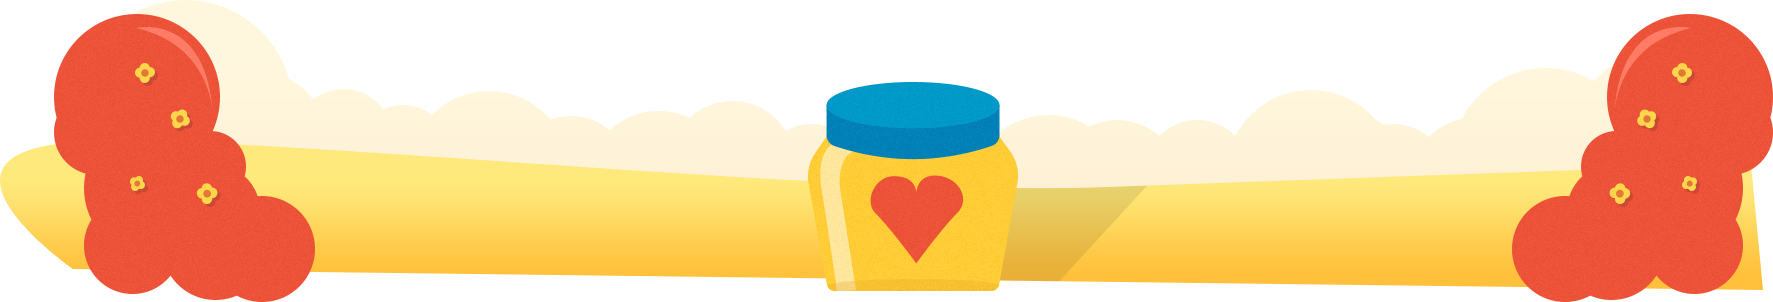
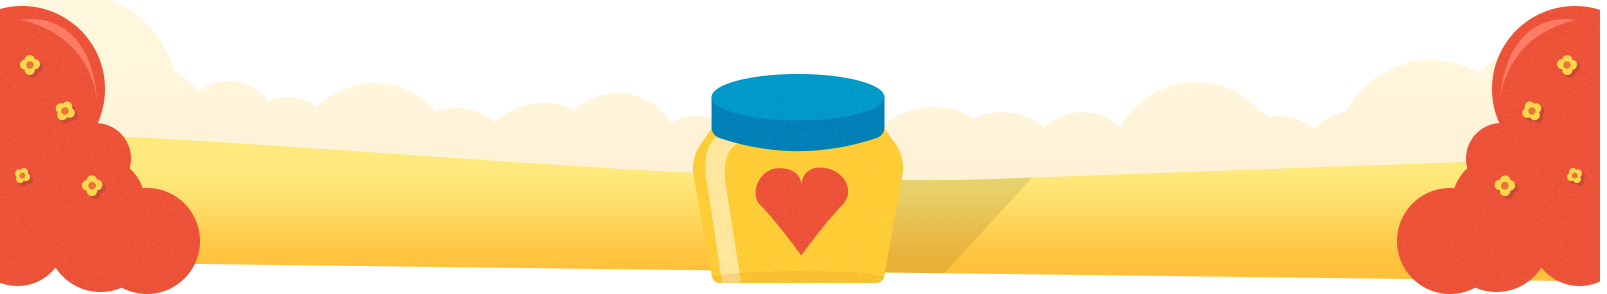
finish hero page

diff --git a/css/main.css b/css/main.css
@@ -1,13 +1,11 @@
 body {
     font-family: 'Poppins', sans-serif;
     font-size: 16px;
+
 }
 
 
 .OathJar_header {
-
-    
-    height: 100vh;
     background-color: #fffef9;
     background-image: linear-gradient(to top, #ffffff 0%, #fff9df 100%)
 }
@@ -20,7 +18,7 @@ body {
     height: 63px;
     background: url(../img/holder.png) no-repeat center;
     color: #0d3e60;
-    margin-top: 5%;
+    margin-top: 60px;
     margin-left: 7%;
 
 }
@@ -60,5 +58,100 @@ body {
     color: #0d3e60;
     font-size: 16px;
     font-weight: 300;
+}
+
+.Hero-page {
+
+}
+
+.Hero-page__invite {
+    display: flex;
+    flex-direction: column;
+    align-items: center;
+}
+
+.Hero-page__invite__icon {
+    width: 79px;
+    height: 84px;
+}
+
+.Hero-page__invite span {
+    color: #eb5238;
+    font-size: 20px;
+    font-weight: 300;
+    margin-top: 35px;
+}
+
+.Hero-page__content {
+    display: flex;
+    flex-direction: column;
+    align-items: center;
+}
+
+.Hero-page__content__title {
+width: 640px;
+margin: 20px auto;
+text-align: center;
+color: #0d3e60;
+font-size: 36px;
+font-weight: 700;
+}
+
+.Hero-page__content__emails {
+    display: flex;
+    flex-direction: row;
+    align-items: center;
+}
+.Hero-page__content__emails a {
+    text-decoration: none;
+    color: #0d3e60;
+    font-weight: 700;
+    font-size: 16px;
+}
+
+.Hero-page__content__email1, .Hero-page__content__email2 {
+    height: 91px;
+    display: flex;
+    flex-direction: column;
+    justify-content: space-around;
+    color: #eb5238;
+    font-size: 22px;
+    font-weight: 700;
+}
+.Hero-page__content__email1 {
+    text-align: right;
+}
+.Hero-page__content__button {
+    border: none;
+    margin: 0 35px;
+    width: 91px;
+    height: 113px;
+    background: url(../img/heart.png) no-repeat center;
+}
+.Hero-page__message {
+display: flex;
+flex-direction: column;
+}
+
+.Hero-page__message-desc {
+    display: flex;
+    justify-content: center;
+    color: #0d3e60;
+    font-weight: 300;
+}
+.Hero-page__message-text {
+    background: url(../img/Scroll_background.png) no-repeat center;
+    background-size: contain;
+    text-align: center;
+    line-height: 165px;
+    color: #8d8b80;
+    font-size: 18px;
+    font-weight: 500;
+}
+.Hero-page__illustration {
+    width: 100%;
+    height: 294px;
+    background: url(../img/header_bottom.png) no-repeat center;
+    background-size: cover;
 
 }

diff --git a/index.html b/index.html
@@ -4,7 +4,7 @@
 <head>
     <link rel="stylesheet" href="css/normalize.css">
     <link rel="stylesheet" href="css/main.css">
-    <link href="https://fonts.googleapis.com/css?family=Poppins:400,500,700" rel="stylesheet">
+    <link href="https://fonts.googleapis.com/css?family=Poppins:300,400,500,700" rel="stylesheet">
     <meta charset="UTF-8">
     <meta name="viewport" content="width=device-width, initial-scale=1.0">
     <title>Document</title>
@@ -12,7 +12,6 @@
 
 <body>
     <header class="OathJar_header">
-        <div class="Container"></div>
         <div class="Header__cloud">
             <span class="Header__cloud__text-item1">Where promises</span>
             <span class="Header__cloud__text-item2">are kept</span>
@@ -25,8 +24,35 @@
                 <div class="Header__promises-counter__item2"><span>promises</span></div>
             </div>
         </div>
-        </div>
     </header>
+    <section class="Hero-page">
+        <div class="Hero-page__invite">
+            <div class="Hero-page__invite__icon"><img src="../tryhard2/img/Vector_Smart_Object.png" alt="invitation letter"></div>
+            <span>You got an Invite!</span>
+        </div>
+        <div class="Hero-page__content">
+            <div class="Hero-page__content__title">You have been invited to confirm
+                    the following relationship
+            </div>
+            <div class="Hero-page__content__emails">
+                <div class="Hero-page__content__email1">
+                    <span>John Smith</span>
+                    <a href="mailto:johnsmith@gmail.com">johnsmith@gmail.com</a>
+                </div>
+                <button class="Hero-page__content__button">
+                </button>
+                <div class="Hero-page__content__email2">
+                        <span>Janice Smith</span>
+                        <a href="mailto:janicesmith@hotmail.com">janicesmith@hotmail.com</a>
+                </div>
+            </div>
+        </div>
+        <div class="Hero-page__message">
+            <div class="Hero-page__message-desc"><p>There’s a message inside</p></div>
+            <div class="Hero-page__message-text"><p>Hi Janice! Check out this great website</p></div>
+        </div>
+        <div class="Hero-page__illustration"> 1</div>
+    </section>
 
 </body>
 
